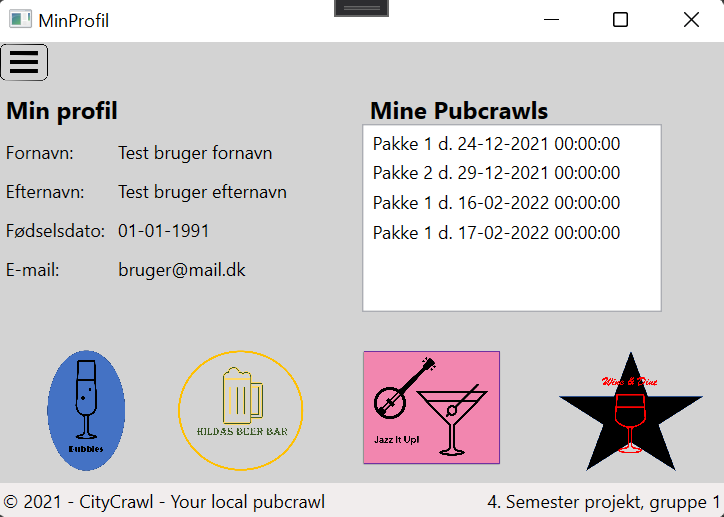
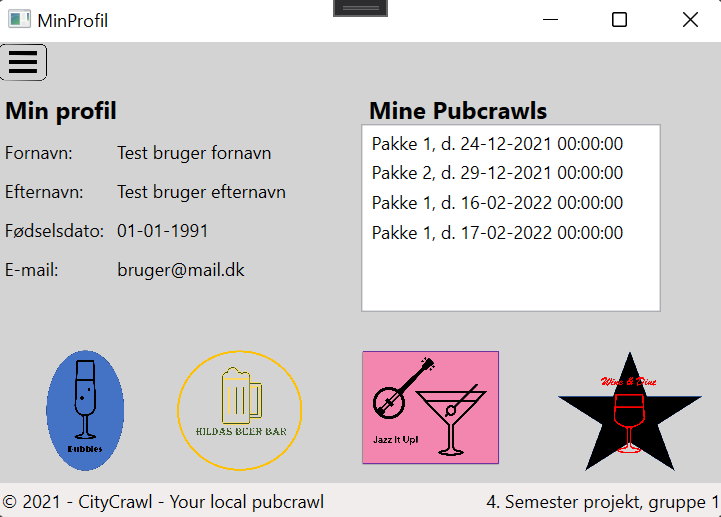
opdatering

diff --git a/WPF/CityCrawlApp/CityCrawlApp/ViewModels/MinProfilViewModel.cs b/WPF/CityCrawlApp/CityCrawlApp/ViewModels/MinProfilViewModel.cs
@@ -84,7 +84,7 @@ namespace CityCrawlApp.ViewModels
 
                 foreach (var pubcrawl in user.Pubcrawls)
                 {
-                    var booketPubcrawl = pubcrawl.PakkeNavn + " d. " + pubcrawl.MoedeTid;
+                    var booketPubcrawl = pubcrawl.PakkeNavn + ", d. " + pubcrawl.MoedeTid;
                     this.Pubcrawls.Add(booketPubcrawl);
                 }
             }
